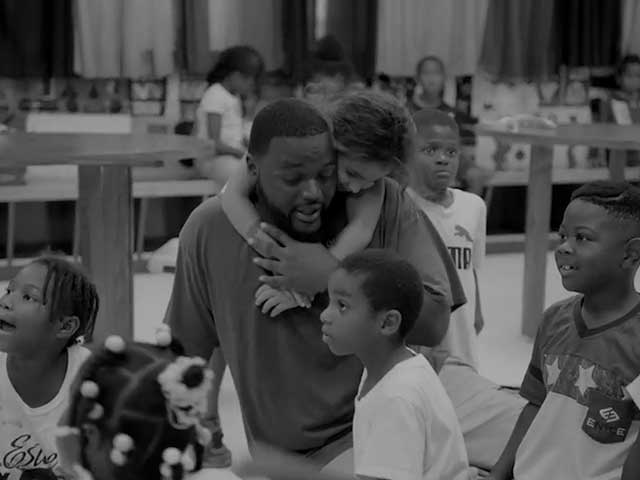
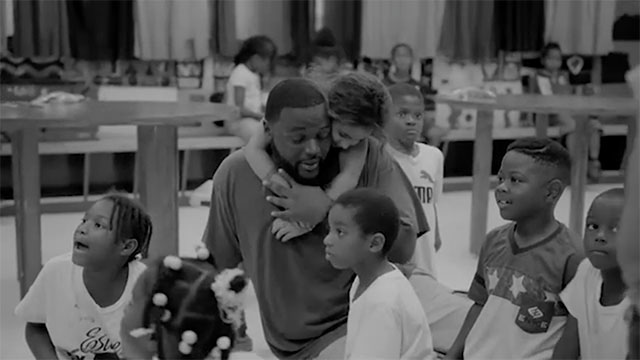
Updated video still for home page.

diff --git a/dev/home/home.scss b/dev/home/home.scss
@@ -26,8 +26,8 @@
   background-size: cover;
   height: auto;
   left: 50%;
-  min-height: 150%;
-  min-width: 150%;
+  min-height: 100%;
+  min-width: 100%;
   position: fixed;
   top: 50%;
   width: auto;
